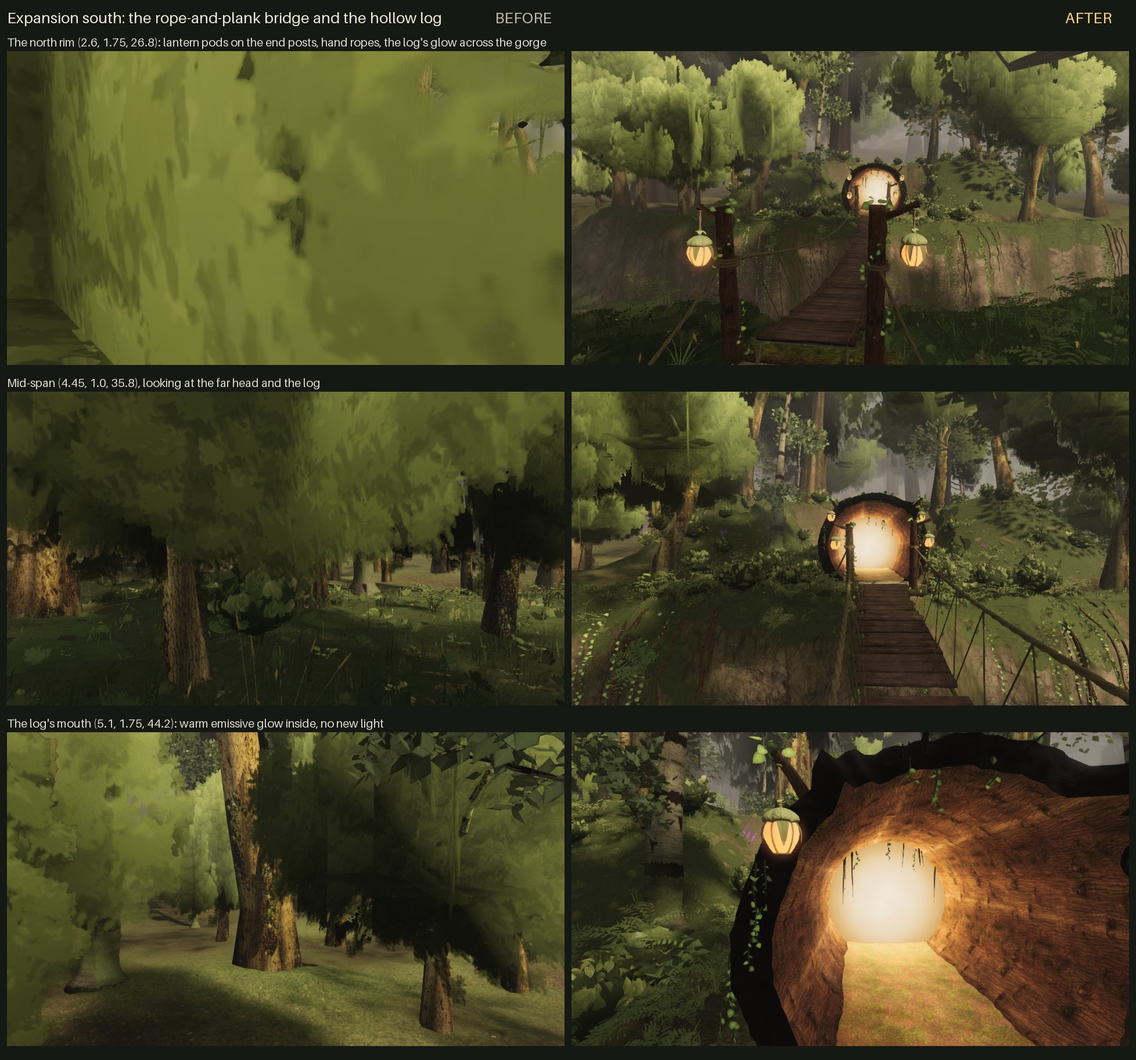
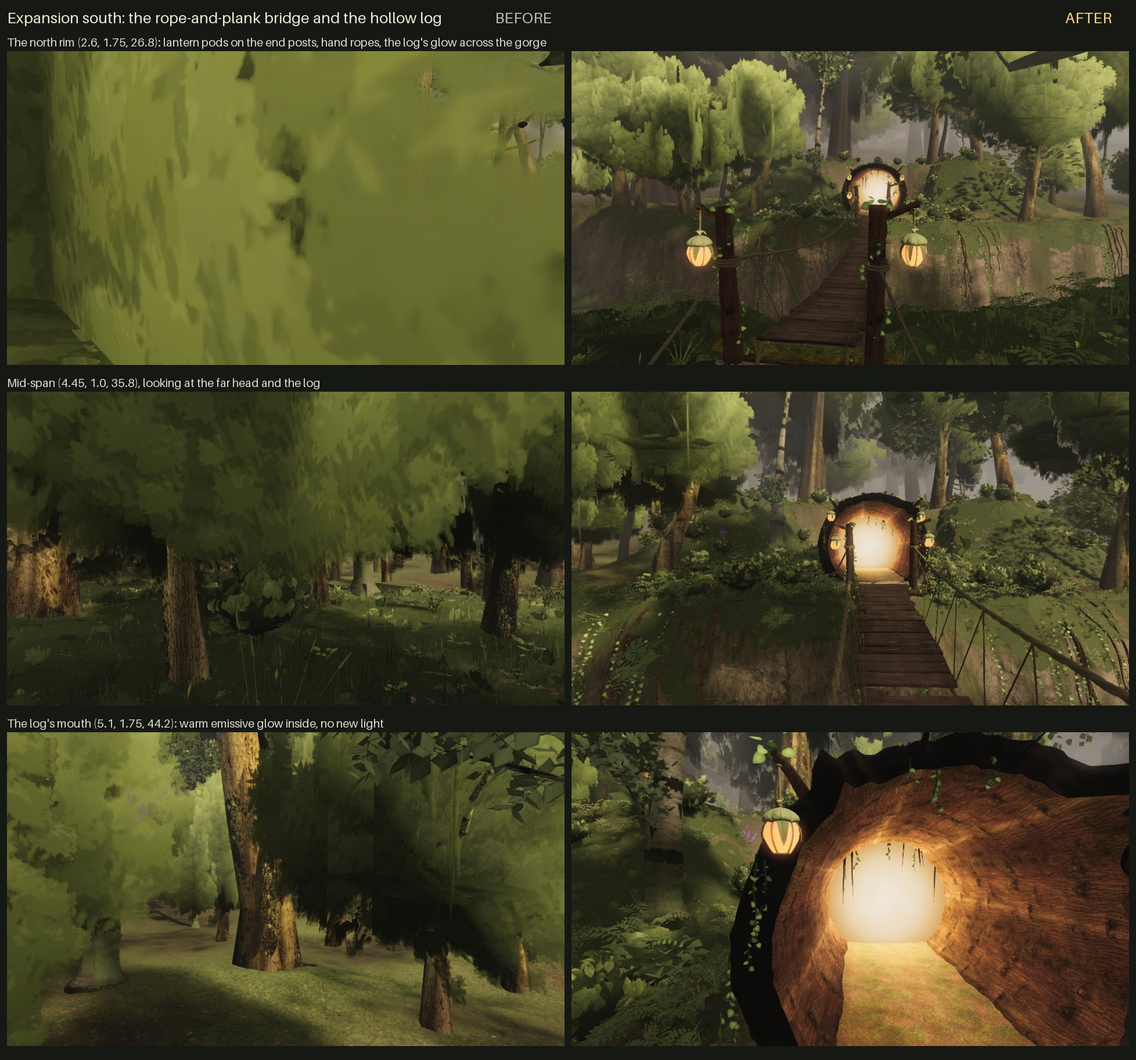
expansion-south README: hero-camera table (C 2.25 % of pixels, A B D E F unchanged), sheets from the final build, final walk and rubric checks

diff --git a/art/environment/exp-south-2026-09-23/README.md b/art/environment/exp-south-2026-09-23/README.md
@@ -34,17 +34,31 @@ rocks and props are culled off the path, bridge heads and log, and the rims are 
 
 ## How it was tested
 
-- `npx tsc --noEmit`, `npx vite build`, and all tests: `node --test` on the 35 world test files
-  (93/93, including `node --test src/world/trees/*.test.mjs src/world/structures/*.test.mjs` and the new
-  `src/world/terrain/expansionSouth.test.mjs`), plus the monitor, ledger, perf-flag, audio and camera tests (30/30).
-- Play mode walk: `node gauntlet/scripts/playtest.mjs --only walk --walk-routes south-bridge-to-log` on the
-  final build. Route plaza → south path → bridge → 5 m into the log: **reached, 21/21 waypoints, 51.7 m,
-  nothing stuck**. Camera max 8.9 m/s (the pre-reroute run hit 79 m/s in a 2.6 m snap against
-  `plaza-south`'s trunk), feet on the ground (sole gap p95 2.1 cm). **Probes 41/41 pass:** the deck walks at 25/50/75 %
-  of the span (9/9), **every probe 0.7, 1.0 and 2.5 m off either side of the deck is blocked (18/18)**, the rim
-  beside the north head is walkable only at grade (2/2), the gorge beside both heads is blocked (6/6), the
-  log's floor walks (3/3), and its walls and the glow past the dead end block (3/3).
-- The same merge on top of the integration head `81430baf` is conflict-free, typechecks and passes 97/97 world tests.
+- `npx tsc --noEmit`, `npx vite build`, and all tests on the final commit: `node --test` on the 35 world test
+  files (93/93, including the new `src/world/terrain/expansionSouth.test.mjs`; `node --test
+  src/world/trees/*.test.mjs src/world/structures/*.test.mjs` alone is 32/32), plus the monitor, ledger,
+  perf-flag, audio and camera tests (30/30).
+- Play mode walk on the final build: `node gauntlet/scripts/playtest.mjs --only walk --walk-routes
+  south-bridge-to-log`. Route plaza → south path → bridge → 5 m into the log: **reached, 21/21 waypoints,
+  51.7 m, nothing stuck**, no page errors. Camera p95 3.2 m/s, max 8.9 m/s, no jump over 0.3 m (the pre-reroute
+  run hit 79 m/s in a 2.6 m snap against `plaza-south`'s trunk); feet on the ground (sole gap p95 2.1 cm, max
+  3.2 cm). **Probes 41/41 pass:** the deck walks at 25/50/75 % of the span (9/9), **every probe 0.7, 1.0 and
+  2.5 m off either side of the deck is blocked (18/18)**, the rim beside the north head is walkable only at
+  grade (2/2), the gorge beside both heads is blocked (6/6), the log's floor walks (3/3), and its walls and the
+  glow past the dead end block (3/3).
+- The rubric's scene checks on one page per build (every registered audit, the probes, and the placement samples
+  against the live ground): all 71 audits and 4 probes pass, as on `746f1d39`. Tree bases (W12) 159/160 within
+  3 cm (before 164/164; 99 % needed). The one miss is the southwest giant's root contact at (−18.19, 13.22),
+  3.1 cm over the round-49 west expansion's ground: it was already there, and is sampled now because the south
+  culls shifted the every-second-base sample. Litter (W07) 373/374, the same single miss at (−14.36, 18.55) as
+  before (389/390). Grass 400/400, boulders 33/33, structure bases 60/60 (before 54/54).
+- The south trees stand on the live ground at their centre. A tree is culled when the carved ground drops more
+  than 0.45 m within its roots' reach, which is shallower than the boles' 0.5 m below-ground skirt, so every
+  bole's skirt still meets the ground on all sides. The culls take nothing out of the random streams the
+  surviving trees are drawn from, so the village's trees (including every one in D and F) stay exactly where
+  they were.
+- The branch merged onto the integration head `81430baf` (scratch worktree, not pushed) is conflict-free,
+  typechecks, builds and passes all 41 test files there (129/129).
 
 ## Numbers
 
@@ -53,21 +67,44 @@ shadow passes, `quality=high`), BEFORE = `746f1d39`, AFTER = this branch:
 
 | Pose | Camera → target | Draws before → after | Triangles before → after (M) |
 | --- | --- | --- | --- |
-| spawn, looking south | (0.2, 1.75, −3.2) → (2, 1.1, 20) | 478 → 542 | 6.156 → 6.668 |
-| rim, across the bridge | (2.6, 1.75, 26.8) → (5.3, 0.4, 44) | 244 → 318 | 2.840 → 3.007 |
-| mid-span | (4.45, 1.0, 35.8) → (5.4, 0.9, 52) | 174 → 235 | 1.634 → 2.309 |
-| deck, mid | (3.9, 0.85, 36.5) → (4.3, 0.2, 52) | 167 → 232 | 1.734 → 2.525 |
-| log mouth | (5.1, 1.75, 44.2) → (5.6, 1.2, 56) | 136 → 222 | 1.291 → 3.034 |
-| west rim | (−7, 3.2, 35.5) → (4.5, −1.2, 39) | 373 → 462 | 3.983 → 4.608 |
-| down the gorge | (4.3, 1.0, 37) → (−20, −3, 40) | 345 → 409 | 3.602 → 3.666 |
-| spine's south end | (0.9, 1.7, 11.5) → (−1.4, 0.5, 22) | 382 → 471 | 4.577 → 5.087 |
-| round `plaza-south`'s foot | (−1.0, 1.6, 18.0) → (0.4, 0.4, 26.5) | 335 → 426 | 4.117 → 4.666 |
-| through the gap | (−1.2, 1.6, 22.2) → (3.8, 0.3, 31.5) | 317 → 408 | 3.853 → 4.242 |
-| far bank, looking back north | (4.8, 2.6, 43.6) → (2, 0.8, 24) | (new ground) → 699 | (new ground) → 8.806 |
+| spawn, looking south | (0.2, 1.75, −3.2) → (2, 1.1, 20) | 478 → 541 | 6.156 → 6.657 |
+| rim, across the bridge | (2.6, 1.75, 26.8) → (5.3, 0.4, 44) | 244 → 315 | 2.840 → 2.978 |
+| mid-span | (4.45, 1.0, 35.8) → (5.4, 0.9, 52) | 174 → 230 | 1.634 → 2.308 |
+| deck, mid | (3.9, 0.85, 36.5) → (4.3, 0.2, 52) | 167 → 229 | 1.734 → 2.367 |
+| log mouth | (5.1, 1.75, 44.2) → (5.6, 1.2, 56) | 136 → 213 | 1.291 → 2.764 |
+| log mouth, close | (4.15, 1.3, 44.6) → (4.4, 0.6, 56) | 138 → 216 | 1.314 → 2.731 |
+| west rim | (−7, 3.2, 35.5) → (4.5, −1.2, 39) | 373 → 460 | 3.983 → 4.582 |
+| down the gorge | (4.3, 1.0, 37) → (−20, −3, 40) | 345 → 406 | 3.602 → 3.499 |
+| spine's south end | (0.9, 1.7, 11.5) → (−1.4, 0.5, 22) | 382 → 470 | 4.577 → 5.043 |
+| round `plaza-south`'s foot | (−1.0, 1.6, 18.0) → (0.4, 0.4, 26.5) | 335 → 423 | 4.117 → 4.594 |
+| through the gap | (−1.2, 1.6, 22.2) → (3.8, 0.3, 31.5) | 317 → 404 | 3.853 → 4.183 |
+| far bank, looking back north | (4.8, 2.6, 43.6) → (2, 0.8, 24) | (new ground) → 698 | (new ground) → 8.798 |
+| over the gorge, 7.5 m up (not reachable) | (−6, 7.5, 33) → (6, −2, 40) | (new ground) → 424 | (new ground) → 4.812 |
 
 The south content costs about 93 draws when all of it is in view (48 vegetation batches, 21 + 14 structure draws in
 the colour and shadow passes, 2 paving, 2 mist); the six pods stay separate draws because each one's pivot swings,
 as every village pod does. The look back from the far bank is the heaviest new view because it frames the whole
 village beyond the gorge.
 
-HERO_TABLE (the six fixed cameras at the capture's 1280×716: rendering)
+### The fixed hero cameras
+
+At the capture's 1280×716, same time, character hidden, `quality=high`. `E_ground` holds B's camera, so it
+renders B's frame and is only scored against a different reference frame. Pixel change is the share of pixels
+whose colour moves by more than 16/255; reference SSIM is the gauntlet's comparison with that camera's
+reference frame.
+
+| Camera | Draws before → after | Triangles before → after (M) | Pixels changed | Reference SSIM before → after |
+| --- | --- | --- | --- | --- |
+| `A_stairs` | 578 → 578 | 8.748 → 8.745 | 0.00 % (PSNR 86.9 dB) | 0.1623 → 0.1623 |
+| `B_house` | 565 → 565 | 7.877 → 7.874 | 0.00 % (PSNR 85.9 dB) | 0.1651 → 0.1651 |
+| `E_ground` (B's camera) | 565 → 565 | 7.877 → 7.874 | 0.00 % | 0.1890 → 0.1890 |
+| `C_lookback` | 452 → 511 | 6.413 → 6.935 | **2.25 %** | 0.1796 → 0.1768 |
+| `D_log` | 533 → 533 | 8.108 → 8.106 | none (bit-identical) | 0.2378 → 0.2378 |
+| `F_canopy` | 527 → 527 | 7.503 → 7.500 | none (bit-identical) | 0.1958 → 0.1958 |
+
+Every camera stays under 9.0 M triangles and 700 draws. Only C changes: it looks south down the approach, and
+the new ground shows in the misty backdrop between the trunks (all changed pixels inside x 413–1137, y 56–360;
+3.09 % move by more than 8/255, SSIM to the before frame 0.972). That costs C 59 draws and 0.52 M triangles, and
+0.003 of reference SSIM (W37 needs 0.42 and already fails on every camera, before and after). A, B, D, E and F
+see none of the new area. They lose about 2.6 K triangles each because the root toes of the white-barks culled off
+the new ground were part of the merged toe mesh that every view draws.
